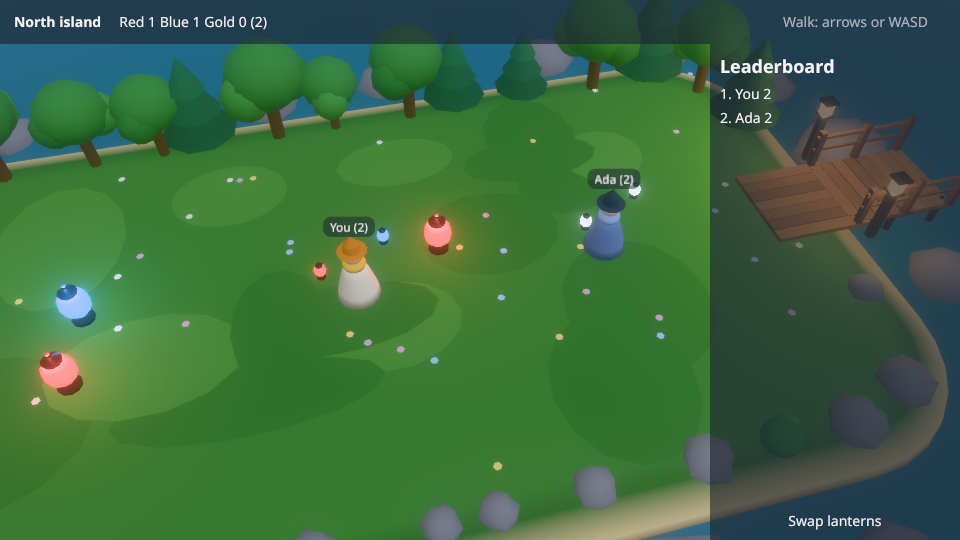
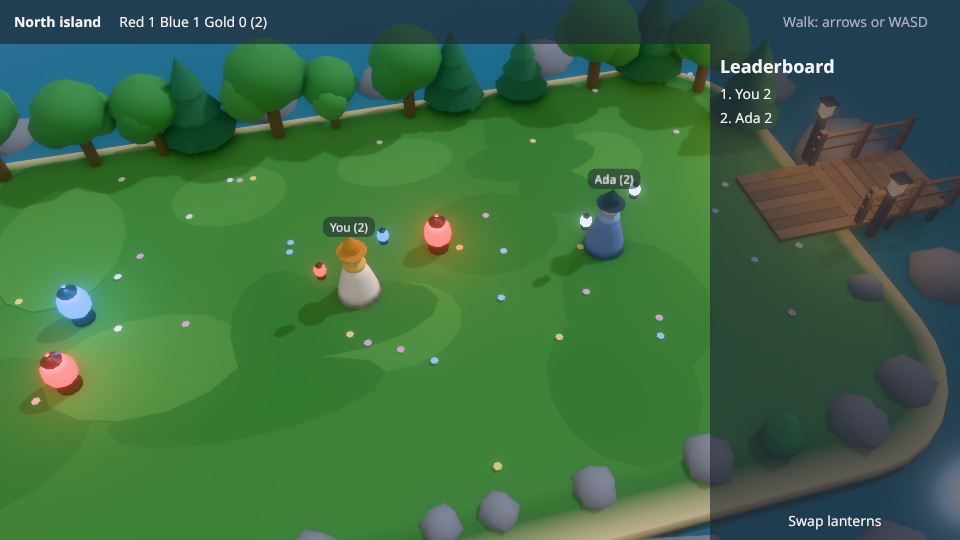
lanterns: instanced scenery, moon shadows, SSAO; the blob shadow is gone; scene writer gets float instances and a shadow flag on directional lights

diff --git a/samples/lanterns/art/Program.cs b/samples/lanterns/art/Program.cs
@@ -223,7 +223,6 @@ static class Models
     private static readonly Mat Cloth = new("cloth", 0f, 0.8f);
     private static readonly Mat Skin = new("skin", 0f, 0.55f);
     private static readonly Mat Water = new("water", 0f, 0.06f);
-    private static readonly Mat Shadow = new("shadow", 0f, 1f) { Blend = true, DoubleSided = true };
     private static readonly Mat Warm = new("lamp", 0f, 0.4f) { Emissive = new Vector3(1f, 0.62f, 0.25f), EmissiveStrength = 3f };
 
     // The island is 16 x 8 m of play area (the game's 384 x 192 units at 24 to the metre) plus a margin of rim around it.
@@ -240,7 +239,6 @@ static class Models
         yield return ("water", WaterPlane());
         yield return ("walker-me", Walker(Pal.Hex(0xF1E6D2), Pal.Hex(0xE08A2E), Pal.Hex(0xF2C14E)));
         yield return ("walker-other", Walker(Pal.Hex(0x6F86B8), Pal.Hex(0x2B3550), Pal.Hex(0x9CB2D8)));
-        yield return ("blob", Blob());
         yield return ("lantern-red", LanternModel(0xE5484D, new Vector3(1f, 0.10f, 0.08f)));
         yield return ("lantern-blue", LanternModel(0x4C9BE8, new Vector3(0.12f, 0.45f, 1f)));
         yield return ("lantern-gold", LanternModel(0xF2C14E, new Vector3(1f, 0.62f, 0.10f)));
@@ -469,27 +467,6 @@ static class Models
         model.Lathe(Cloth, new Vector3(0f, 0.86f, 0f), [(0f, 0f, hat), (0.20f, 0f, hat), (0.12f, 0.02f, hat), (0.10f, 0.12f, hat), (0f, 0.26f, hat)], 12, smooth: false);
         model.Sphere(Matte, new Vector3(-0.05f, 0.80f, -0.115f), 0.022f, Pal.Hex(0x1B1B20), 6, 4);
         model.Sphere(Matte, new Vector3(0.05f, 0.80f, -0.115f), 0.022f, Pal.Hex(0x1B1B20), 6, 4);
-        return model;
-    }
-
-    private static Model Blob()
-    {
-        var model = new Model();
-        var mesh = model.On(Shadow);
-        var hub = mesh.Vertex(new Vector3(0, 0, 0), Vector3.UnitY, new Vector4(0f, 0f, 0f, 0.42f));
-        const int n = 16;
-        var ring = new uint[n];
-        for (var j = 0; j < n; j++)
-        {
-            var a = j / (float)n * MathF.Tau;
-            ring[j] = mesh.Vertex(new Vector3(MathF.Cos(a) * 0.36f, 0f, MathF.Sin(a) * 0.36f), Vector3.UnitY, new Vector4(0f, 0f, 0f, 0f));
-        }
-
-        for (var j = 0; j < n; j++)
-        {
-            mesh.Tri(hub, ring[j], ring[(j + 1) % n]);
-        }
-
         return model;
     }
 

diff --git a/src/OneGame.Host/Scene/SceneWriter.Matrix.cs b/src/OneGame.Host/Scene/SceneWriter.Matrix.cs
@@ -27,8 +27,17 @@ public sealed partial class SceneWriter
     /// <param name="direction">The way the light travels.</param>
     /// <param name="color">Linear RGB.</param>
     /// <param name="lux">Intensity.</param>
-    public void DirectionalLight(Vector3 direction, Vector3 color, float lux)
-        => _lights.Add(new LightDraw(LightKind.Directional, default, Vector3.Normalize(direction), color, lux, 0f, 0f, 0f));
+    /// <param name="castShadows">Whether models and instances cast shadows from this light (cascaded; needs a quality level that allows shadows).</param>
+    public void DirectionalLight(Vector3 direction, Vector3 color, float lux, bool castShadows = false)
+        => _lights.Add(new LightDraw(LightKind.Directional, default, Vector3.Normalize(direction), color, lux, 0f, 0f, 0f, castShadows));
+
+    /// <summary>Shows one copy of a static model among many at a world matrix; see the <see cref="Transform3"/> form.</summary>
+    /// <param name="model">The name the model was added under.</param>
+    /// <param name="world">Where it is; scale must be uniform and unmirrored.</param>
+    /// <param name="tint">Linear RGBA multiplied into the base colour; null leaves it unchanged.</param>
+    /// <exception cref="UnknownModelException">The library has no such model.</exception>
+    public void Instance(string model, in Matrix4x4 world, Vector4? tint = null)
+        => _instances.Add(new InstanceDraw(_models.IndexOf(model), world, tint ?? Vector4.One));
 
     /// <summary>Offers a camera placed by a rigid camera-to-world matrix (it looks down its -Z). Same choice rule as the transform form.</summary>
     /// <param name="world">Camera-to-world matrix.</param>

diff --git a/samples/lanterns/Views/IslandScene.cs b/samples/lanterns/Views/IslandScene.cs
@@ -116,7 +116,7 @@ internal sealed class IslandScene
             linked = IsLinked(world);
         }
 
-        w.DirectionalLight(new Vector3(-0.35f, -0.8f, -0.45f), new Vector3(0.62f, 0.72f, 1f), 1.1f);
+        w.DirectionalLight(new Vector3(-0.6f, -0.75f, 0.2f), new Vector3(0.62f, 0.72f, 1f), 1.6f, castShadows: true);
         w.Model("water", Matrix4x4.CreateTranslation(Layout.OriginB / 2f + 8f, Layout.WaterY, 4f), pickable: false);
         w.Model("island-a", Matrix4x4.CreateTranslation(Layout.X(Rules.IslandA, Rules.Width / 2f), 0f, Layout.Z(Rules.Height / 2f)), pickable: false);
         if (linked)
@@ -132,7 +132,7 @@ internal sealed class IslandScene
         var shown = linked ? _props.Length : _props.Length / 2;
         for (var i = 0; i < shown; i++)
         {
-            w.Model(PropModels[_props[i].Model], _props[i].World, pickable: false);
+            w.Instance(PropModels[_props[i].Model], _props[i].World);
         }
 
         Lamps(w, Rules.IslandA);
@@ -245,7 +245,6 @@ internal sealed class IslandScene
         w.Entity = p.Id;
         w.Model(mineNow ? "walker-me" : "walker-other", m);
         w.Entity = default;
-        w.Model("blob", Matrix4x4.CreateScale(WalkerSize) * Matrix4x4.CreateTranslation(at.X, 0.025f, at.Y), pickable: false);
         Carried(p, mineNow, w, at, bob, tick: w.Tick + alpha);
         if (_labelCount < MaxLabels)
         {

diff --git a/samples/lanterns/tests/View3DTests.cs b/samples/lanterns/tests/View3DTests.cs
@@ -256,6 +256,7 @@ public class View3DTests
         var renderer = new Renderer3D(device);
         var target = new Offscreen3D(renderer, 320, 180);
         var scene = new Scene { Samples = 1 };
+        scene.Ssao.Enabled = true; // and the moon casts shadows: the allocation claim covers the shadow and ambient occlusion passes too
         var view = game.View;
 
         long prepared = 0, built = 0;
@@ -307,7 +308,9 @@ public class View3DTests
 
         device.WaitIdle();
         Assert.True(frames == 0, $"{frames} bytes over 120 frames (describing {prepared}, building {built}): {string.Join(", ", where.Take(6))}");
-        Assert.True(scene.Models.Count > 60, $"{scene.Models.Count} models drawn");
+        var props = scene.Batches.Sum(b => b.Count);
+        Assert.True(scene.Models.Count > 20 && props > 40, $"{scene.Models.Count} models and {props} instanced props drawn");
+        Assert.True(scene.Lights.Any(l => l.CastShadows), "the moon should cast shadows");
         Assert.True(scene.Lights.Count >= 5, $"{scene.Lights.Count} lights");
     }
 }

diff --git a/samples/lanterns/Game.cs b/samples/lanterns/Game.cs
@@ -49,7 +49,7 @@ public sealed class LanternsGame : GameDefinition
 
     private static readonly string[] ModelNames =
     [
-        "island-a", "island-b", "bridge", "bridge-stub", "water", "walker-me", "walker-other", "blob",
+        "island-a", "island-b", "bridge", "bridge-stub", "water", "walker-me", "walker-other",
         "lantern-red", "lantern-blue", "lantern-gold", "lantern-plain", "pine", "oak", "rock", "bush",
     ];
 
@@ -179,6 +179,7 @@ public sealed class LanternsGame : GameDefinition
             scene.Environment.Intensity = 0.45f;
             scene.Post.BloomStrength = 0.09f;
             scene.Samples = 4;
+            scene.Ssao.Enabled = true;
         }
     }
 

diff --git a/src/OneGame.Host/Scene/SceneWriter.cs b/src/OneGame.Host/Scene/SceneWriter.cs
@@ -174,5 +174,5 @@ public sealed partial class SceneWriter
 
     internal readonly record struct InstanceDraw(int Model, Matrix4x4 World, Vector4 Tint);
 
-    internal readonly record struct LightDraw(LightKind Kind, Vector3 Position, Vector3 Direction, Vector3 Color, float Intensity, float Range, float Inner, float Outer);
+    internal readonly record struct LightDraw(LightKind Kind, Vector3 Position, Vector3 Direction, Vector3 Color, float Intensity, float Range, float Inner, float Outer, bool Shadows = false);
 }

diff --git a/src/OneGame.Host/Scene/SceneView3D.cs b/src/OneGame.Host/Scene/SceneView3D.cs
@@ -172,6 +172,7 @@ public sealed class SceneView3D : IDisposable
             light.Color = l.Color;
             light.Intensity = l.Intensity;
             light.Range = l.Range;
+            light.CastShadows = l.Shadows;
             light.InnerConeAngle = l.Inner;
             light.OuterConeAngle = l.Outer > 0f ? l.Outer : light.OuterConeAngle;
             scene.Lights.Add(light);

diff --git a/samples/lanterns/README.md b/samples/lanterns/README.md
@@ -33,6 +33,7 @@ It is also the example for multiplayer: `docs/interfaces/sync.md` (views, predic
 The rules live in a library that servers share and cannot reference the host, so no entity draws itself. `IslandScene` is the scene view's `Describer`: each frame it reads the island worlds (for the one I walk on, the predicted copy) and writes models, lights and the camera. The two islands sit side by side along X with the bridge between, so the camera follows my player over the hand-over without a cut; a walker waiting for the other server glides across at a fixed speed.
 
 - **Motion is view state.** `Motion` moves the drawn position towards the state's position a little each tick, so a prediction correction bends the path instead of popping. It counts ticks, never the clock, so a capture after N ticks always looks the same.
+- **Light and depth:** the scenery (trees, rocks, bushes) is drawn with `Instance`, and the moon casts cascaded shadows from walkers, lanterns, scenery and the bridge. The stage turns SSAO on; quality levels cap it (`quality` op).
 - **Names** are UI labels pinned to a point above each walker (`PinToWorld`). Lanterns circling a walker are its count; only your own copy knows their colours.
 - **Picking:** `scenarios/12-pick.yaml` clicks a lantern, a walker and the ground. Models of lanterns and walkers are pickable, scenery is not.
 - **Looking at it:** `onegame view models/island-a.glb` renders one model; `onegame capture --out a.png --size 720p --fixture crowded --screen main --after 45` renders the game.

diff --git a/docs/interfaces/scene3d.md b/docs/interfaces/scene3d.md
@@ -38,7 +38,7 @@ An entity that implements `IView3D` is asked once per drawn frame, in entity ord
 
 ### Describing from view code
 
-A game whose entities live in a library that cannot reference the host (a rules assembly shared with servers) cannot implement `IView3D`. It sets `SceneView3D.Describer` instead: `Action<World, SceneWriter>`, called after the entities. It writes with the float forms `Model(name, in Matrix4x4, pickable)`, `PointLight(Vector3, ...)`, `DirectionalLight(Vector3, ...)` and `Camera(in Matrix4x4, ...)`, and sets `SceneWriter.Entity` before a model so picking reports that entity. Keep per-frame state keyed by `scene.Tick`: the same tick may be described several times in a frame (pinned labels ask too). Use indexed loops over `world.Entities`; `foreach` allocates.
+A game whose entities live in a library that cannot reference the host (a rules assembly shared with servers) cannot implement `IView3D`. It sets `SceneView3D.Describer` instead: `Action<World, SceneWriter>`, called after the entities. It writes with the float forms `Model(name, in Matrix4x4, pickable)`, `Instance(name, in Matrix4x4, tint)`, `PointLight(Vector3, ...)`, `DirectionalLight(Vector3, lux, castShadows)` and `Camera(in Matrix4x4, ...)`, and sets `SceneWriter.Entity` before a model so picking reports that entity. Keep per-frame state keyed by `scene.Tick`: the same tick may be described several times in a frame (pinned labels ask too). Use indexed loops over `world.Entities`; `foreach` allocates.
 
 ## Picking and projection
 
